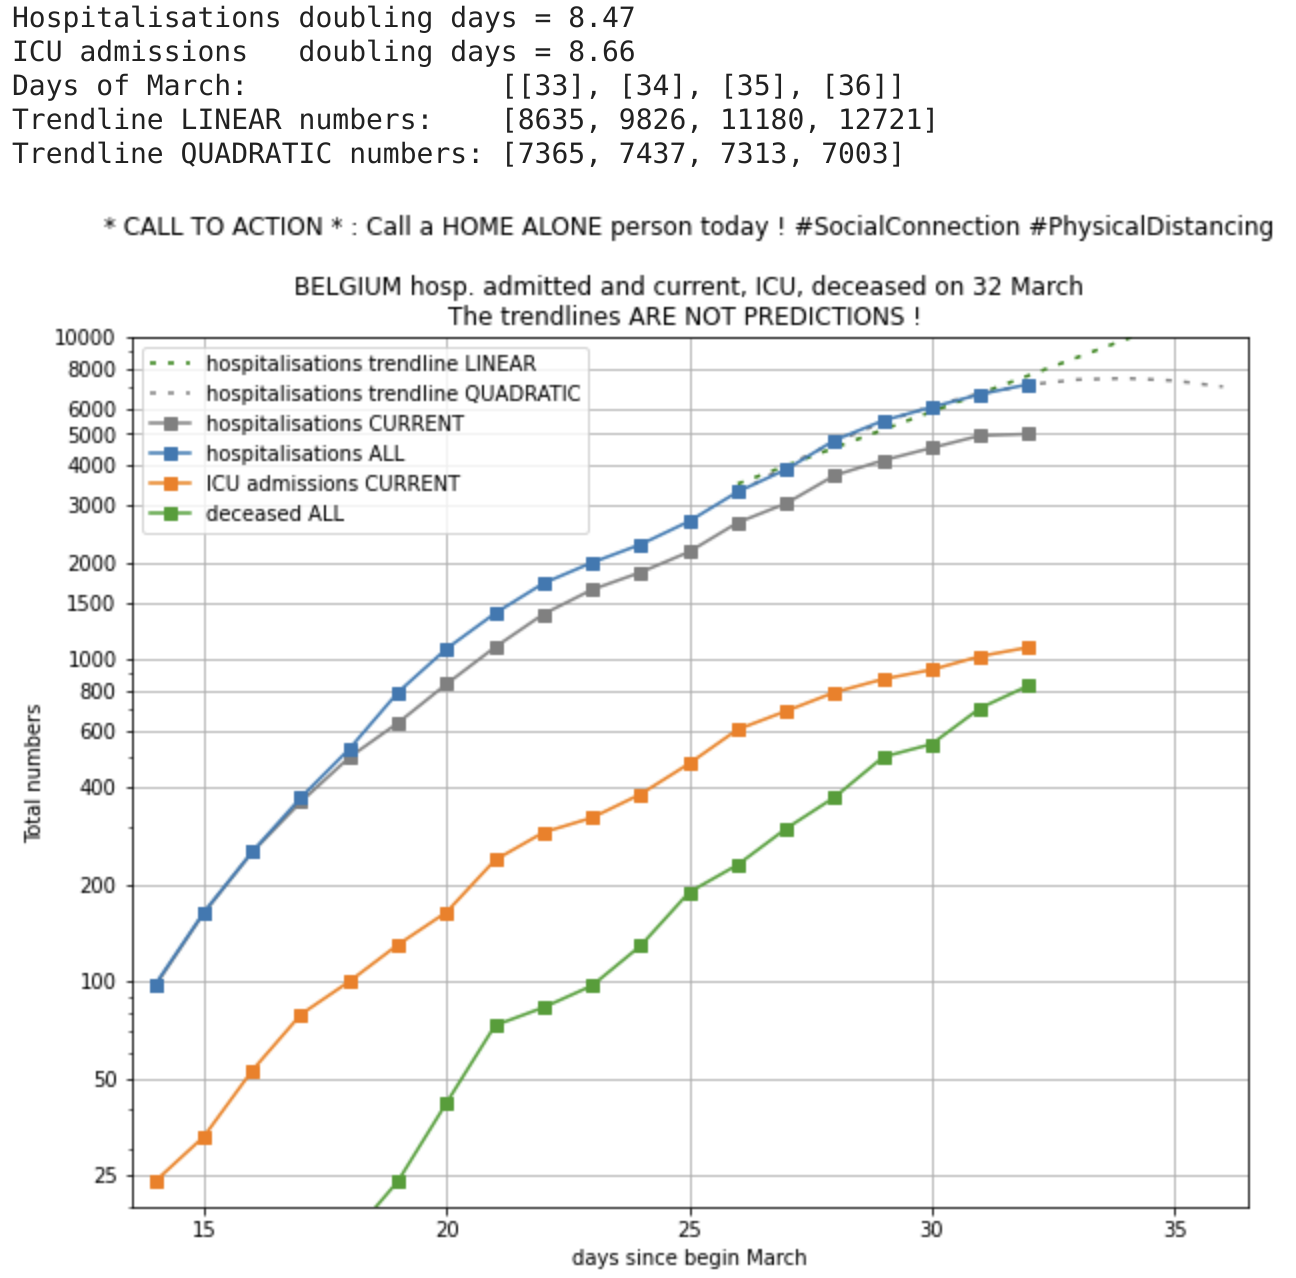
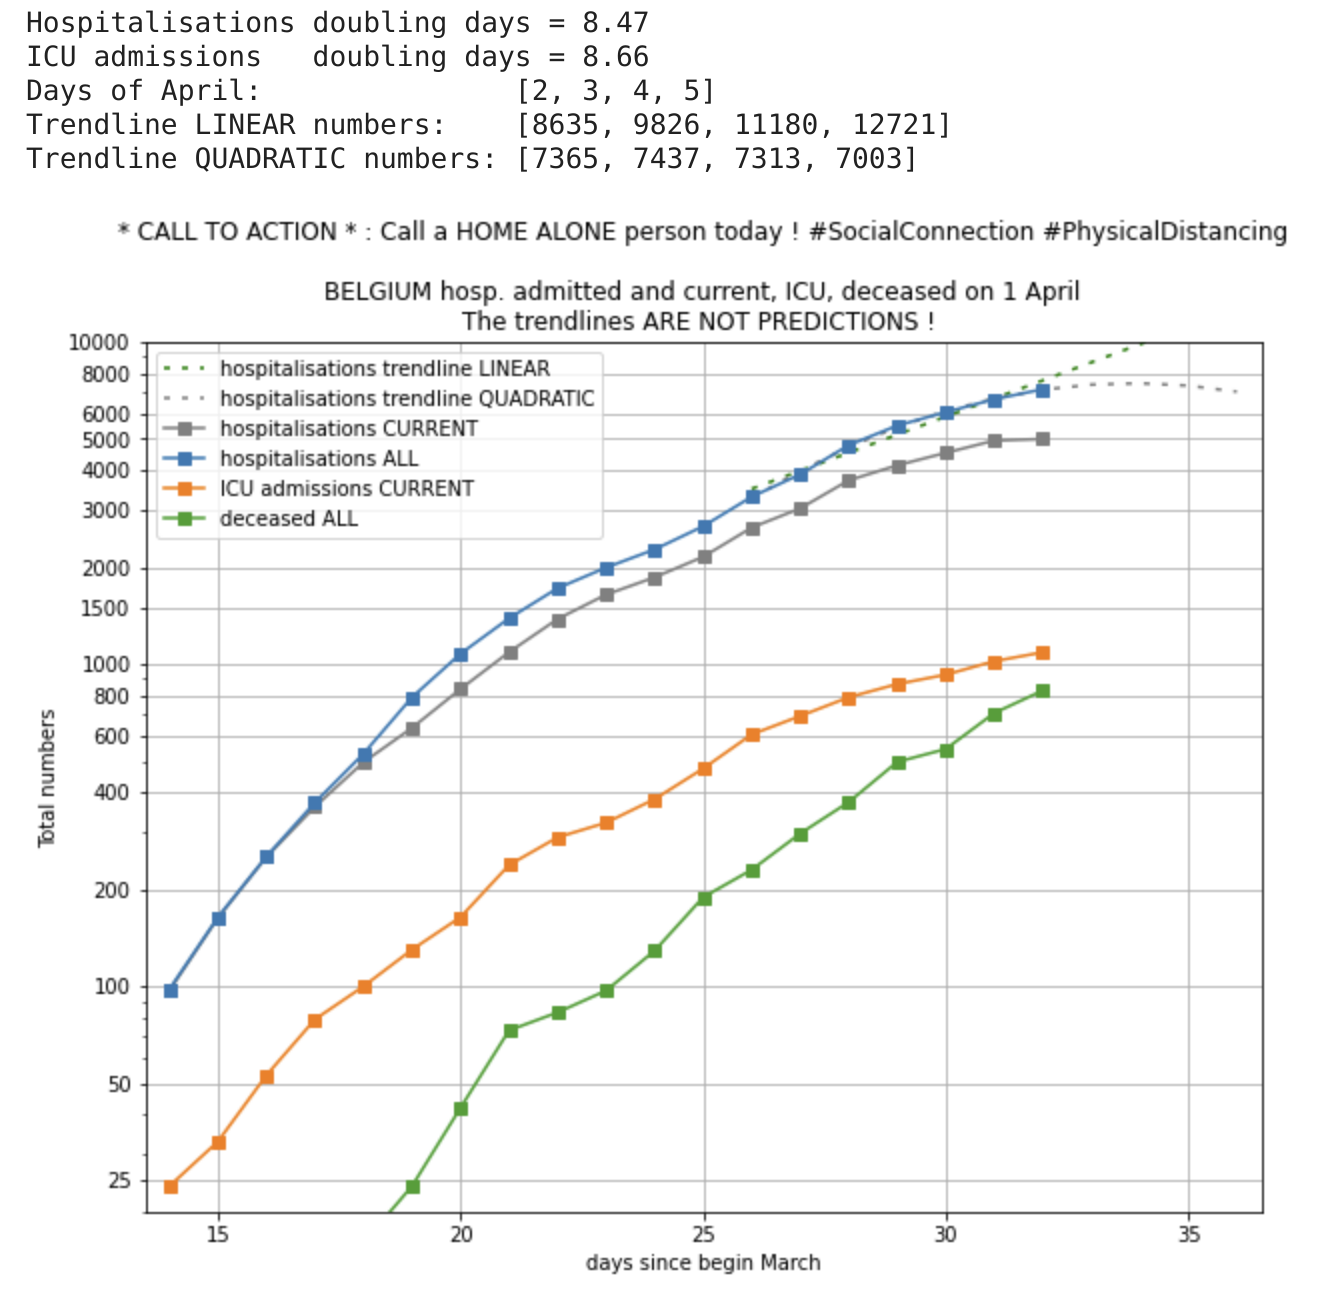
Use April for labels

Changed region(s): [[0.0, 0.2136, 0.9877, 1.0], [0.0, 0.0, 0.9877, 0.2136]]

diff --git a/code/Belgium/Belgium-2020-04-01.py b/code/Belgium/Belgium-2020-04-01.py
@@ -56,7 +56,7 @@ first_future_day = current_day + 1
 trendline_dates = [[x] for x in range(first_future_day, first_future_day + extrapolation_days)]
 X_ = X + trendline_dates
 y = log2_hosp[-previous_days:]
-print(f"Days of March:               {trendline_dates}")
+print(f"Days of April:               {[(x[0] - 31) for x in trendline_dates]}")
 
 # linear (degree 1)
 poly_1 = PolynomialFeatures(degree = 1)
@@ -103,7 +103,7 @@ plt.plot(day_of_march, deceased, 's-', color = 'C2', label="deceased ALL")
 
 plt.xlabel("days since begin March")
 plt.ylabel("Total numbers")
-plt.title(f"\n* CALL TO ACTION * : Call a HOME ALONE person today ! #SocialConnection #PhysicalDistancing\n\n{country} hosp. admitted and current, ICU, deceased on {current_day} March\nThe trendlines ARE NOT PREDICTIONS ! ")
+plt.title(f"\n* CALL TO ACTION * : Call a HOME ALONE person today ! #SocialConnection #PhysicalDistancing\n\n{country} hosp. admitted and current, ICU, deceased on {(current_day - 31)} April\nThe trendlines ARE NOT PREDICTIONS ! ")
 plt.legend()
 plt.grid()
 plt.show()
